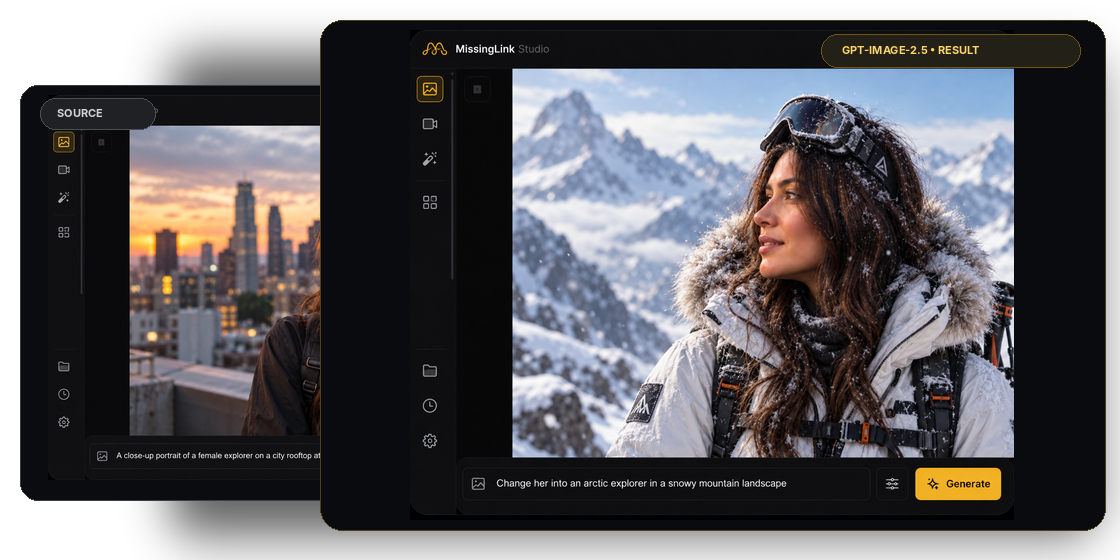
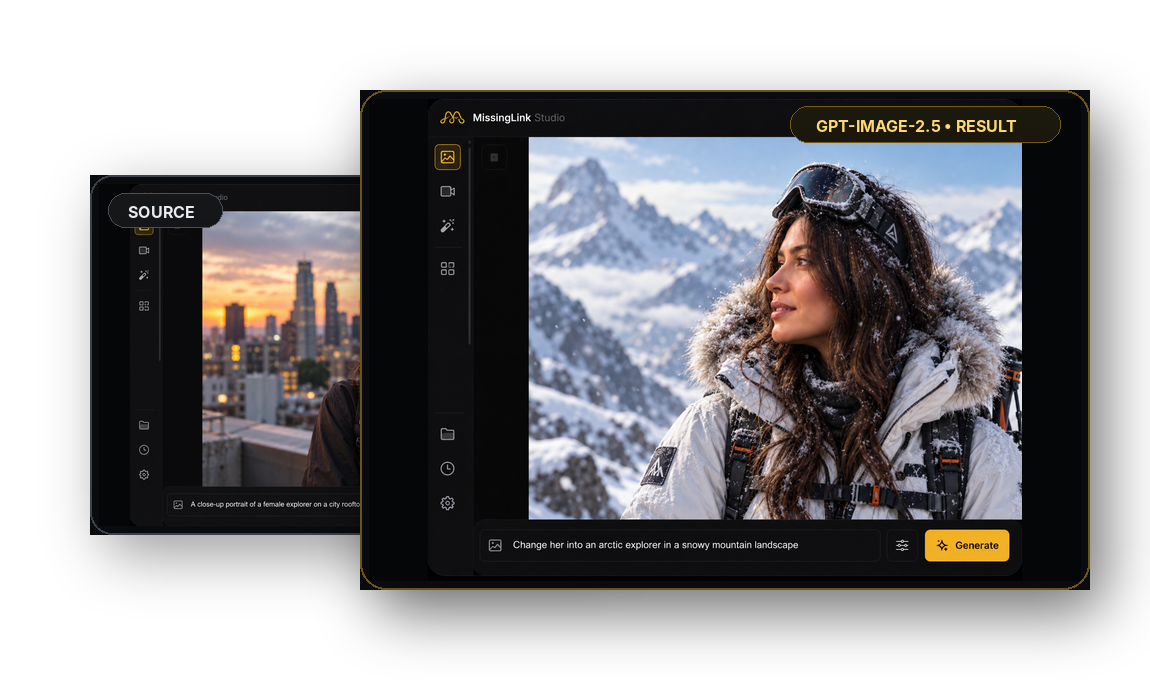
another attempt

diff --git a/index.html b/index.html
@@ -4,111 +4,217 @@
 <meta charset="utf-8">
 <meta name="viewport" content="width=device-width,initial-scale=1,viewport-fit=cover">
 <meta name="theme-color" content="#08090b">
-<link rel="icon" href="assets/icons/app_logo.png">
+<link rel="icon" href="https://raw.githubusercontent.com/PotentiallyARobot/MissingLink-Extras/main/image-edit-studio/static/app_logo.png?v=2">
 <title>MissingLink — GPT-Image-2.5 in Studio</title>
 <style>
 :root{
-  --bg:#08090b;--surface:#101216;--surface2:#15181e;--line:#2c313a;
-  --text:#f5f6f8;--dim:#b3b8c1;--mute:#777f8d;--gold:#f2b72a;--gold2:#ffd66a;
-  --max:1480px
+  --bg:#08090b; --surface:#101216; --surface2:#15181e; --line:#2d3139;
+  --text:#f5f6f8; --dim:#b5bac3; --mute:#7a828f; --gold:#f2b72a; --gold2:#ffd86f;
+  --max:1480px;
 }
 *{box-sizing:border-box}
 html,body{margin:0;background:var(--bg);color:var(--text);font-family:Inter,ui-sans-serif,system-ui,-apple-system,BlinkMacSystemFont,"Segoe UI",sans-serif}
 body{overflow-x:hidden}
-img{display:block;max-width:100%}
 a{text-decoration:none;color:inherit}
-.shell{width:min(var(--max),calc(100% - 64px));margin:auto}
+img{display:block;max-width:100%}
+.shell{width:min(var(--max), calc(100% - 64px)); margin:0 auto}
 
-.nav{height:68px;position:absolute;inset:0 0 auto;z-index:10;background:rgba(7,8,10,.82);border-bottom:1px solid rgba(255,255,255,.08);backdrop-filter:blur(14px)}
-.navin{height:100%;display:flex;align-items:center;gap:20px}
-.brand{display:flex;align-items:center;gap:10px;font:800 13px/1 ui-monospace,SFMono-Regular,Menlo,monospace;letter-spacing:1.6px;white-space:nowrap}
-.brand img{width:29px;height:29px;object-fit:contain;flex:none}
-.brand b{color:#727987;font-weight:700}
-.links{margin-left:auto;display:flex;gap:24px;align-items:center;color:#c2c6ce;font-size:13px}
-.cta{padding:11px 18px;border-radius:10px;background:var(--gold);color:#111;font-weight:850;font-size:13px}
-.menuBtn{display:none;width:40px;height:40px;border:1px solid var(--line);border-radius:10px;background:#0d0f12;padding:8px}
+.nav{
+  position:absolute; inset:0 0 auto; z-index:20; height:68px;
+  background:rgba(7,8,10,.82); backdrop-filter:blur(14px);
+  border-bottom:1px solid rgba(255,255,255,.08);
+}
+.navin{height:100%; display:flex; align-items:center; gap:18px}
+.brand{display:flex; align-items:center; gap:10px; font:800 13px/1 ui-monospace,SFMono-Regular,Menlo,monospace; letter-spacing:1.5px; white-space:nowrap}
+.brand img{width:29px; height:29px; object-fit:contain; flex:none}
+.brand b{color:#727987; font-weight:700}
+.links{margin-left:auto; display:flex; align-items:center; gap:24px; color:#c3c7ce; font-size:13px}
+.links a:hover{color:#fff}
+.cta{padding:11px 18px; border-radius:10px; background:var(--gold); color:#111; font-weight:850; font-size:13px}
+.menuBtn{display:none; width:40px; height:40px; border:1px solid var(--line); border-radius:10px; background:#0d0f12; padding:8px}
 .menuBtn img{width:100%;height:100%;object-fit:contain}
+.mobileMenu{display:none}
 
-.hero{position:relative;min-height:555px;background:#0b0c0f url("assets/hero_background.jpg") center/cover no-repeat;border-bottom:1px solid rgba(255,255,255,.08);overflow:hidden}
-.hero:before{content:"";position:absolute;inset:0;background:linear-gradient(90deg,rgba(5,6,8,.92) 0%,rgba(5,6,8,.74) 31%,rgba(5,6,8,.28) 61%,rgba(5,6,8,.16) 100%),linear-gradient(180deg,rgba(0,0,0,.05),rgba(7,8,10,.76) 100%)}
-.heroGrid{position:relative;z-index:2;display:grid;grid-template-columns:minmax(0,.78fr) minmax(0,1.22fr);gap:30px;align-items:center;padding:105px 0 38px}
-.badge{display:inline-flex;align-items:center;gap:8px;border:1px solid rgba(242,183,42,.5);border-radius:999px;padding:7px 11px;background:rgba(19,16,7,.72);color:var(--gold2);font:800 11px ui-monospace,SFMono-Regular,Menlo,monospace;letter-spacing:.4px}
-.badge strong{background:var(--gold);color:#111;border-radius:999px;padding:4px 7px}
-h1{font-size:clamp(48px,4.4vw,68px);line-height:.98;letter-spacing:-3px;margin:17px 0 14px}
+.hero{
+  position:relative; min-height:720px; overflow:hidden;
+  background:
+    linear-gradient(90deg, rgba(5,6,8,.94) 0%, rgba(5,6,8,.86) 28%, rgba(5,6,8,.56) 52%, rgba(5,6,8,.30) 70%, rgba(5,6,8,.18) 100%),
+    linear-gradient(180deg, rgba(0,0,0,.04), rgba(7,8,10,.76) 100%),
+    url("assets/hero_background.jpg") center center / cover no-repeat;
+  border-bottom:1px solid rgba(255,255,255,.08);
+}
+.heroGrid{
+  position:relative; z-index:2;
+  display:grid; grid-template-columns:minmax(0,.86fr) minmax(0,1.14fr);
+  gap:26px; align-items:center;
+  padding:108px 0 52px;
+}
+.badge{
+  display:inline-flex; align-items:center; gap:8px;
+  border:1px solid rgba(242,183,42,.45); border-radius:999px;
+  padding:7px 11px; background:rgba(20,16,7,.72);
+  color:var(--gold2); font:800 11px ui-monospace,SFMono-Regular,Menlo,monospace;
+  letter-spacing:.4px;
+}
+.badge strong{
+  background:var(--gold); color:#111; border-radius:999px; padding:4px 7px;
+}
+h1{
+  font-size:clamp(58px,5vw,76px); line-height:.96; letter-spacing:-3.2px;
+  margin:18px 0 16px; max-width:610px;
+}
 h1 span{color:var(--gold)}
-.sub{font-size:22px;font-weight:780;margin:0 0 8px}
-.lead{font-size:17px;line-height:1.55;color:var(--dim);margin:0;max-width:600px}
+.sub{margin:0 0 10px; font-size:24px; font-weight:780; letter-spacing:-.5px}
+.lead{margin:0; max-width:620px; color:var(--dim); font-size:18px; line-height:1.56}
 .lead strong{color:#fff}
-.actions{display:flex;gap:12px;margin:23px 0 17px}
-.btn{padding:13px 18px;border-radius:11px;border:1px solid var(--line);font-weight:800;font-size:14px}
-.btn.primary{background:var(--gold);border-color:var(--gold);color:#111}
-.btn.secondary{background:rgba(10,11,13,.62)}
-.proof{display:flex;flex-wrap:wrap;gap:9px 18px;color:#c5c9d0;font:500 10.5px ui-monospace,SFMono-Regular,Menlo,monospace}
-.proof span:before{content:"✓";color:var(--gold);margin-right:7px;font-weight:900}
-.heroArt{width:100%;filter:drop-shadow(0 28px 42px rgba(0,0,0,.5))}
+.actions{display:flex; gap:12px; margin:26px 0 18px}
+.btn{padding:14px 18px; border-radius:11px; border:1px solid var(--line); font-weight:800; font-size:14px}
+.btn.primary{background:var(--gold); border-color:var(--gold); color:#111}
+.btn.secondary{background:rgba(11,12,15,.55)}
+.proof{
+  display:flex; flex-wrap:wrap; gap:9px 18px;
+  color:#c4c8d0; font:500 11px ui-monospace,SFMono-Regular,Menlo,monospace;
+}
+.proof span:before{content:"✓"; color:var(--gold); margin-right:7px; font-weight:900}
+
+.heroArt{
+  width:100%; display:flex; justify-content:flex-end; align-items:center;
+}
+.heroArt img{
+  width:min(100%, 900px); height:auto;
+}
 .heroArt .mobile{display:none}
 
-.workflow{padding:27px 0 28px;background:#090a0c}
-.head{display:flex;justify-content:space-between;align-items:end;gap:20px;margin-bottom:14px}
-.kicker{color:var(--gold);font:800 10.5px ui-monospace,SFMono-Regular,Menlo,monospace;letter-spacing:1px}
-.head h2{font-size:30px;letter-spacing:-1.1px;margin:5px 0 0}
-.head p{margin:0 0 3px;color:var(--dim);font-size:13px}
-.cards{display:grid;grid-template-columns:repeat(5,minmax(0,1fr));gap:10px}
-.card{position:relative;background:linear-gradient(180deg,#12151a,#0e1014);border:1px solid var(--line);border-radius:13px;overflow:hidden;min-width:0}
-.media{height:170px;background:#050608;border-bottom:1px solid var(--line);display:flex;align-items:center;justify-content:center}
-.media img{width:100%;height:100%;object-fit:contain}
+.workflow{
+  background:#090a0c;
+  padding:28px 0 28px;
+}
+.head{
+  display:flex; align-items:end; justify-content:space-between; gap:24px;
+  margin-bottom:14px;
+}
+.kicker{
+  color:var(--gold); font:800 11px ui-monospace,SFMono-Regular,Menlo,monospace;
+  letter-spacing:1px;
+}
+.head h2{
+  margin:5px 0 0; font-size:32px; line-height:1.05; letter-spacing:-1.2px;
+}
+.head p{margin:0 0 3px; color:var(--dim); font-size:13px}
+.cards{
+  display:grid; grid-template-columns:repeat(5, minmax(0,1fr)); gap:10px;
+}
+.card{
+  position:relative; min-width:0; overflow:hidden;
+  background:linear-gradient(180deg,#12151a,#0e1014);
+  border:1px solid var(--line); border-radius:13px;
+}
+.media{
+  height:172px; background:#050608; border-bottom:1px solid var(--line);
+  display:flex; align-items:center; justify-content:center;
+}
+.media img{width:100%; height:100%; object-fit:contain}
 .copy{padding:12px 13px 15px}
-.step{font:800 9.5px ui-monospace,SFMono-Regular,Menlo,monospace;color:var(--gold)}
-.card h3{font-size:18px;margin:7px 0 4px}
-.card p{font-size:11.5px;line-height:1.45;color:var(--dim);margin:0}
-.connector{position:absolute;top:75px;right:-10px;z-index:3;width:21px;height:21px;border-radius:50%;background:var(--gold);display:grid;place-items:center}
+.step{color:var(--gold); font:800 9.5px ui-monospace,SFMono-Regular,Menlo,monospace}
+.card h3{font-size:18px; margin:7px 0 4px}
+.card p{margin:0; color:var(--dim); font-size:11.8px; line-height:1.45}
+.connector{
+  position:absolute; top:76px; right:-10px; z-index:3;
+  width:21px; height:21px; border-radius:50%;
+  background:var(--gold); display:grid; place-items:center;
+}
 .connector img{width:14px;height:14px}
 .card:last-child .connector{display:none}
 
-.rail{border-top:1px solid rgba(255,255,255,.08);background:#0a0b0d}
-.railin{display:grid;grid-template-columns:repeat(6,1fr);min-height:80px;align-items:center}
-.feature{display:grid;grid-template-columns:42px 1fr;gap:10px;align-items:center;padding:0 15px;border-right:1px solid rgba(255,255,255,.08)}
+.rail{
+  border-top:1px solid rgba(255,255,255,.08);
+  background:#0a0b0d;
+}
+.railin{
+  display:grid; grid-template-columns:repeat(6,1fr); min-height:82px; align-items:center;
+}
+.feature{
+  display:grid; grid-template-columns:42px 1fr; gap:10px; align-items:center;
+  padding:0 14px; border-right:1px solid rgba(255,255,255,.08);
+}
 .feature:last-child{border-right:0}
-.feature img{width:34px;height:34px;object-fit:contain}
-.feature b{display:block;font-size:12px;margin-bottom:2px}
-.feature span{display:block;color:var(--mute);font-size:10px}
+.feature img{width:34px; height:34px; object-fit:contain}
+.feature b{display:block; font-size:12px; margin-bottom:2px}
+.feature span{display:block; color:var(--mute); font-size:10px}
 
-.mobileMenu{display:none}
-
-@media(max-width:1050px){
-  .links{display:none}.menuBtn{display:block}.cta{margin-left:auto}
-  .heroGrid{grid-template-columns:1fr;padding-top:94px}.hero{min-height:auto}
-  .heroArt{max-width:900px;margin:auto}.cards{grid-template-columns:repeat(2,minmax(0,1fr))}
-  .connector{display:none}.railin{grid-template-columns:repeat(3,1fr);row-gap:14px;padding:14px 0}
+@media (max-width: 1120px){
+  .links{display:none}
+  .menuBtn{display:block}
+  .cta{margin-left:auto}
+  .hero{min-height:auto; background-position:56% center}
+  .heroGrid{
+    grid-template-columns:1fr;
+    gap:20px;
+    padding-top:94px;
+    padding-bottom:28px;
+  }
+  .heroArt{justify-content:center}
+  .heroArt img{width:min(100%, 920px)}
+  .cards{grid-template-columns:repeat(2,minmax(0,1fr))}
+  .connector{display:none}
+  .railin{grid-template-columns:repeat(3,1fr); row-gap:14px; padding:14px 0}
   .feature:nth-child(3){border-right:0}
 }
-@media(max-width:680px){
-  .shell{width:min(var(--max),calc(100% - 24px))}
-  .nav{height:62px}.navin{gap:8px}
-  .brand{font-size:10px;letter-spacing:1px;gap:7px}.brand img{width:25px;height:25px}
-  .cta{padding:9px 11px;font-size:12px}.menuBtn{width:38px;height:38px}
-  .hero{background-position:62% center}
-  .hero:before{background:linear-gradient(180deg,rgba(5,6,8,.78),rgba(5,6,8,.93) 70%,rgba(7,8,10,.98))}
-  .heroGrid{padding:82px 0 22px;gap:18px}
-  .badge{font-size:9px;padding:6px 8px}.badge strong{padding:3px 5px}
-  h1{font-size:clamp(39px,11.2vw,49px);letter-spacing:-2px;margin:13px 0 10px}
-  .sub{font-size:18px}.lead{font-size:14px}
-  .actions{display:grid;grid-template-columns:1fr;gap:8px;margin:18px 0 13px}.btn{text-align:center}
-  .proof{font-size:9px;gap:7px 12px}
-  .heroArt .desktop{display:none}.heroArt .mobile{display:block}
-  .workflow{padding:22px 0}.head{display:block}.head h2{font-size:25px}.head p{margin-top:5px}
-  .cards{display:flex;overflow-x:auto;scroll-snap-type:x mandatory;gap:10px;padding-bottom:9px;scrollbar-width:none}
-  .cards::-webkit-scrollbar{display:none}.card{flex:0 0 min(84vw,330px);scroll-snap-align:start}.media{height:205px}
-  .railin{grid-template-columns:1fr 1fr;padding:10px 0}.feature{min-height:58px;padding:8px 10px}
-  .feature:nth-child(odd){border-right:1px solid rgba(255,255,255,.08)}.feature:nth-child(even){border-right:0}
+
+@media (max-width: 680px){
+  .shell{width:min(var(--max), calc(100% - 24px))}
+  .nav{height:62px}
+  .navin{gap:8px}
+  .brand{font-size:10px; letter-spacing:1px; gap:7px}
+  .brand img{width:25px; height:25px}
+  .cta{padding:9px 11px; font-size:12px}
+  .menuBtn{width:38px; height:38px}
+  .hero{
+    background:
+      linear-gradient(180deg, rgba(5,6,8,.82) 0%, rgba(5,6,8,.94) 72%, rgba(7,8,10,.99) 100%),
+      url("assets/hero_background.jpg") 64% center / cover no-repeat;
+  }
+  .heroGrid{padding:82px 0 22px; gap:18px}
+  .badge{font-size:9px; padding:6px 8px}
+  .badge strong{padding:3px 5px}
+  h1{font-size:clamp(40px,11.4vw,50px); letter-spacing:-2px; margin:14px 0 10px}
+  .sub{font-size:18px}
+  .lead{font-size:14px; line-height:1.52}
+  .actions{
+    display:grid; grid-template-columns:1fr; gap:8px; margin:18px 0 14px;
+  }
+  .btn{text-align:center}
+  .proof{font-size:9px; gap:8px 12px}
+  .heroArt .desktop{display:none}
+  .heroArt .mobile{display:block}
+  .heroArt img{width:min(100%, 500px)}
+  .workflow{padding:22px 0}
+  .head{display:block}
+  .head h2{font-size:25px}
+  .head p{margin-top:5px}
+  .cards{
+    display:flex; overflow-x:auto; gap:10px; padding-bottom:10px;
+    scroll-snap-type:x mandatory; scrollbar-width:none;
+  }
+  .cards::-webkit-scrollbar{display:none}
+  .card{flex:0 0 min(84vw,330px); scroll-snap-align:start}
+  .media{height:205px}
+  .railin{grid-template-columns:1fr 1fr; padding:10px 0}
+  .feature{
+    min-height:58px; padding:8px 10px;
+  }
+  .feature:nth-child(odd){border-right:1px solid rgba(255,255,255,.08)}
+  .feature:nth-child(even){border-right:0}
 }
 </style>
 </head>
 <body>
 <header class="nav">
   <div class="shell navin">
-    <a class="brand" href="/"><img src="assets/icons/app_logo.png" alt=""><span>MISSINGLINK <b>STUDIO</b></span></a>
-    <nav class="links"><a>Home</a><a>Create</a><a>Community</a><a>Notebooks ▾</a><a>Pricing</a><a>Learn</a><a>Developers / API</a></nav>
+    <a class="brand" href="/"><img src="https://raw.githubusercontent.com/PotentiallyARobot/MissingLink-Extras/main/image-edit-studio/static/app_logo.png?v=2" alt=""><span>MISSINGLINK <b>STUDIO</b></span></a>
+    <nav class="links">
+      <a>Home</a><a>Create</a><a>Community</a><a>Notebooks ▾</a><a>Pricing</a><a>Learn</a><a>Developers / API</a>
+    </nav>
     <a class="cta" href="/studio">Start free</a>
     <button class="menuBtn" aria-label="Menu"><img src="assets/icons/menu.png" alt=""></button>
   </div>
@@ -122,37 +228,73 @@ h1 span{color:var(--gold)}
       <h1>GPT-Image-2.5 is live<br><span>in MissingLink Studio.</span></h1>
       <p class="sub">Create the image, then keep building.</p>
       <p class="lead">Start with OpenAI’s newest image model, then <strong>transform with open-source models</strong>, reshoot the same subject, animate it, batch it, and turn it into 3D — all in one workflow.</p>
-      <div class="actions"><a class="btn primary" href="/studio">Start creating free →</a><a class="btn secondary" href="#workflow">See workflow →</a></div>
-      <div class="proof"><span>50 edits free</span><span>No credit card</span><span>Browser based</span><span>Private until shared</span></div>
+      <div class="actions">
+        <a class="btn primary" href="/studio">Start creating free →</a>
+        <a class="btn secondary" href="#workflow">See workflow →</a>
+      </div>
+      <div class="proof">
+        <span>50 edits free</span>
+        <span>No credit card</span>
+        <span>Browser based</span>
+        <span>Private until shared</span>
+      </div>
     </div>
     <div class="heroArt">
-      <img class="desktop" src="assets/hero_product.png" alt="MissingLink Studio source to result">
-      <img class="mobile" src="assets/hero_product_mobile.png" alt="MissingLink Studio source to result">
+      <img class="desktop" src="assets/hero_product.png" alt="MissingLink Studio source image transformed with GPT-Image-2.5">
+      <img class="mobile" src="assets/hero_product_mobile.png" alt="MissingLink Studio source image transformed with GPT-Image-2.5">
     </div>
   </div>
 </section>
 
 <section class="workflow" id="workflow">
   <div class="shell">
-    <div class="head"><div><div class="kicker">ONE ASSET · FIVE DELIVERABLES</div><h2>From a single image to a complete content pipeline.</h2></div><p>Same subject. New outputs. All in MissingLink Studio.</p></div>
+    <div class="head">
+      <div>
+        <div class="kicker">ONE ASSET · FIVE DELIVERABLES</div>
+        <h2>From a single image to a complete content pipeline.</h2>
+      </div>
+      <p>Same subject. New outputs. All in MissingLink Studio.</p>
+    </div>
+
     <div class="cards">
-      <article class="card"><div class="media"><img src="assets/feat_create.png"></div><div class="copy"><div class="step">01 / START</div><h3>Create or upload</h3><p>Any image. Any idea. Your starting point.</p></div><span class="connector"><img src="assets/icons/arrow.png"></span></article>
-      <article class="card"><div class="media"><img src="assets/feat_edit.png"></div><div class="copy"><div class="step">02 / TRANSFORM</div><h3>Transform it</h3><p>Change style, setting, or composition with open-source models.</p></div><span class="connector"><img src="assets/icons/arrow.png"></span></article>
-      <article class="card"><div class="media"><img src="assets/feat_camera.png"></div><div class="copy"><div class="step">03 / RESHOOT</div><h3>Move the camera</h3><p>Consistent full-body front, 3/4, side, and back views.</p></div><span class="connector"><img src="assets/icons/arrow.png"></span></article>
-      <article class="card"><div class="media"><img src="assets/feat_video.png"></div><div class="copy"><div class="step">04 / MOVE</div><h3>Animate it</h3><p>Use the same finished subject as the starting frame for motion.</p></div><span class="connector"><img src="assets/icons/arrow.png"></span></article>
-      <article class="card"><div class="media"><img src="assets/modelgen_screenshot.png"></div><div class="copy"><div class="step">05 / BUILD</div><h3>Make it 3D</h3><p>Finish with a single textured model in the MissingLink viewer.</p></div></article>
+      <article class="card">
+        <div class="media"><img src="assets/feat_create.png" alt=""></div>
+        <div class="copy"><div class="step">01 / START</div><h3>Create or upload</h3><p>Any image. Any idea. Your starting point.</p></div>
+        <span class="connector"><img src="assets/icons/arrow.png" alt=""></span>
+      </article>
+      <article class="card">
+        <div class="media"><img src="assets/feat_edit.png" alt=""></div>
+        <div class="copy"><div class="step">02 / TRANSFORM</div><h3>Transform it</h3><p>Change style, setting, or composition with open-source models.</p></div>
+        <span class="connector"><img src="assets/icons/arrow.png" alt=""></span>
+      </article>
+      <article class="card">
+        <div class="media"><img src="assets/feat_camera.png" alt=""></div>
+        <div class="copy"><div class="step">03 / RESHOOT</div><h3>Move the camera</h3><p>Consistent full-body front, 3/4, side, and back views.</p></div>
+        <span class="connector"><img src="assets/icons/arrow.png" alt=""></span>
+      </article>
+      <article class="card">
+        <div class="media"><img src="assets/feat_video.png" alt=""></div>
+        <div class="copy"><div class="step">04 / MOVE</div><h3>Animate it</h3><p>Use the same finished subject as the starting frame for motion.</p></div>
+        <span class="connector"><img src="assets/icons/arrow.png" alt=""></span>
+      </article>
+      <article class="card">
+        <div class="media"><img src="assets/modelgen_screenshot.png" alt=""></div>
+        <div class="copy"><div class="step">05 / BUILD</div><h3>Make it 3D</h3><p>Finish with a single textured model in the MissingLink viewer.</p></div>
+      </article>
     </div>
   </div>
 </section>
 
-<section class="rail"><div class="shell railin">
-  <div class="feature"><img src="assets/icons/batch.png"><div><b>Batch</b><span>Up to 20 images</span></div></div>
-  <div class="feature"><img src="assets/icons/sequence.png"><div><b>Sequences</b><span>Keep continuity</span></div></div>
-  <div class="feature"><img src="assets/icons/panorama.png"><div><b>Panorama</b><span>Wide scenes</span></div></div>
-  <div class="feature"><img src="assets/icons/agent.png"><div><b>Agent</b><span>Automate workflows</span></div></div>
-  <div class="feature"><img src="assets/icons/notebooks.png"><div><b>Notebooks</b><span>Colab runtimes</span></div></div>
-  <div class="feature"><img src="assets/icons/api.png"><div><b>API</b><span>Build on it</span></div></div>
-</div></section>
+<section class="rail">
+  <div class="shell railin">
+    <div class="feature"><img src="assets/icons/batch.png" alt=""><div><b>Batch</b><span>Up to 20 images</span></div></div>
+    <div class="feature"><img src="assets/icons/sequence.png" alt=""><div><b>Sequences</b><span>Keep continuity</span></div></div>
+    <div class="feature"><img src="assets/icons/panorama.png" alt=""><div><b>Panorama</b><span>Wide scenes</span></div></div>
+    <div class="feature"><img src="assets/icons/agent.png" alt=""><div><b>Agent</b><span>Automate workflows</span></div></div>
+    <div class="feature"><img src="assets/icons/notebooks.png" alt=""><div><b>Notebooks</b><span>Colab runtimes</span></div></div>
+    <div class="feature"><img src="assets/icons/api.png" alt=""><div><b>API</b><span>Build on it</span></div></div>
+  </div>
+</section>
 </main>
 </body>
 </html>
